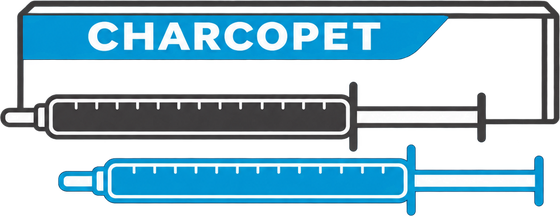
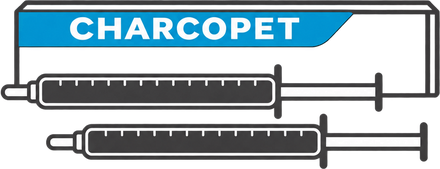
CharcoPet landing: new Benefits artwork, smaller
- Replace the "50% + charcoal" and carton-and-syringes artwork with the
  new versions
- Show both about a quarter smaller (290px and 220px wide)

Claude-Session: https://claude.ai/code/session_012sbNdafQU1UvaYmf7wboRR

Changed region(s): [[0.0, 0.0, 1.0, 1.0]]

diff --git a/charcopet/index.html b/charcopet/index.html
@@ -191,13 +191,13 @@
 
     <div class="cp-bento">
       <article class="cp-card cp-card--conc reveal">
-        <img class="cp-card__art" src="assets/img/benefit-concentration.webp" width="760" height="228" alt="" loading="lazy" decoding="async">
+        <img class="cp-card__art" src="assets/img/benefit-concentration.webp" width="580" height="161" alt="" loading="lazy" decoding="async">
         <h3>High concentration</h3>
         <p>With 50% activated charcoal, CharcoPet delivers a high charcoal concentration per ml, minimising the volume of administration and reducing handling stress.</p>
       </article>
 
       <article class="cp-card cp-card--pack reveal d1">
-        <img class="cp-card__art" src="assets/img/benefit-pack.webp" width="560" height="216" alt="" loading="lazy" decoding="async">
+        <img class="cp-card__art" src="assets/img/benefit-pack.webp" width="440" height="169" alt="" loading="lazy" decoding="async">
         <h3>2 × 30 ml syringe pack</h3>
         <p>Each syringe provides the right amount for up to 15 kg bodyweight. The 30 ml syringe is also much more ergonomic than larger syringes.</p>
       </article>

diff --git a/charcopet/assets/css/charcopet.css b/charcopet/assets/css/charcopet.css
@@ -380,8 +380,8 @@ footer.site-footer{background:var(--forte-black);color:rgba(255,255,255,.78);fon
 .cp-card p{font-size:15px;color:#5c5b60;line-height:1.6;max-width:52ch}
 .cp-card p em{font-style:italic}
 .cp-card__art{display:block;height:auto;max-width:100%;margin-bottom:24px}
-.cp-card--conc .cp-card__art{width:380px}
-.cp-card--pack .cp-card__art{width:280px}
+.cp-card--conc .cp-card__art{width:290px}
+.cp-card--pack .cp-card__art{width:220px}
 .cp-card--marine .cp-card__art,.cp-card--species .cp-card__art{width:auto;height:128px}
 .cp-card--conc{grid-column:span 7}
 .cp-card--pack{grid-column:span 5}
